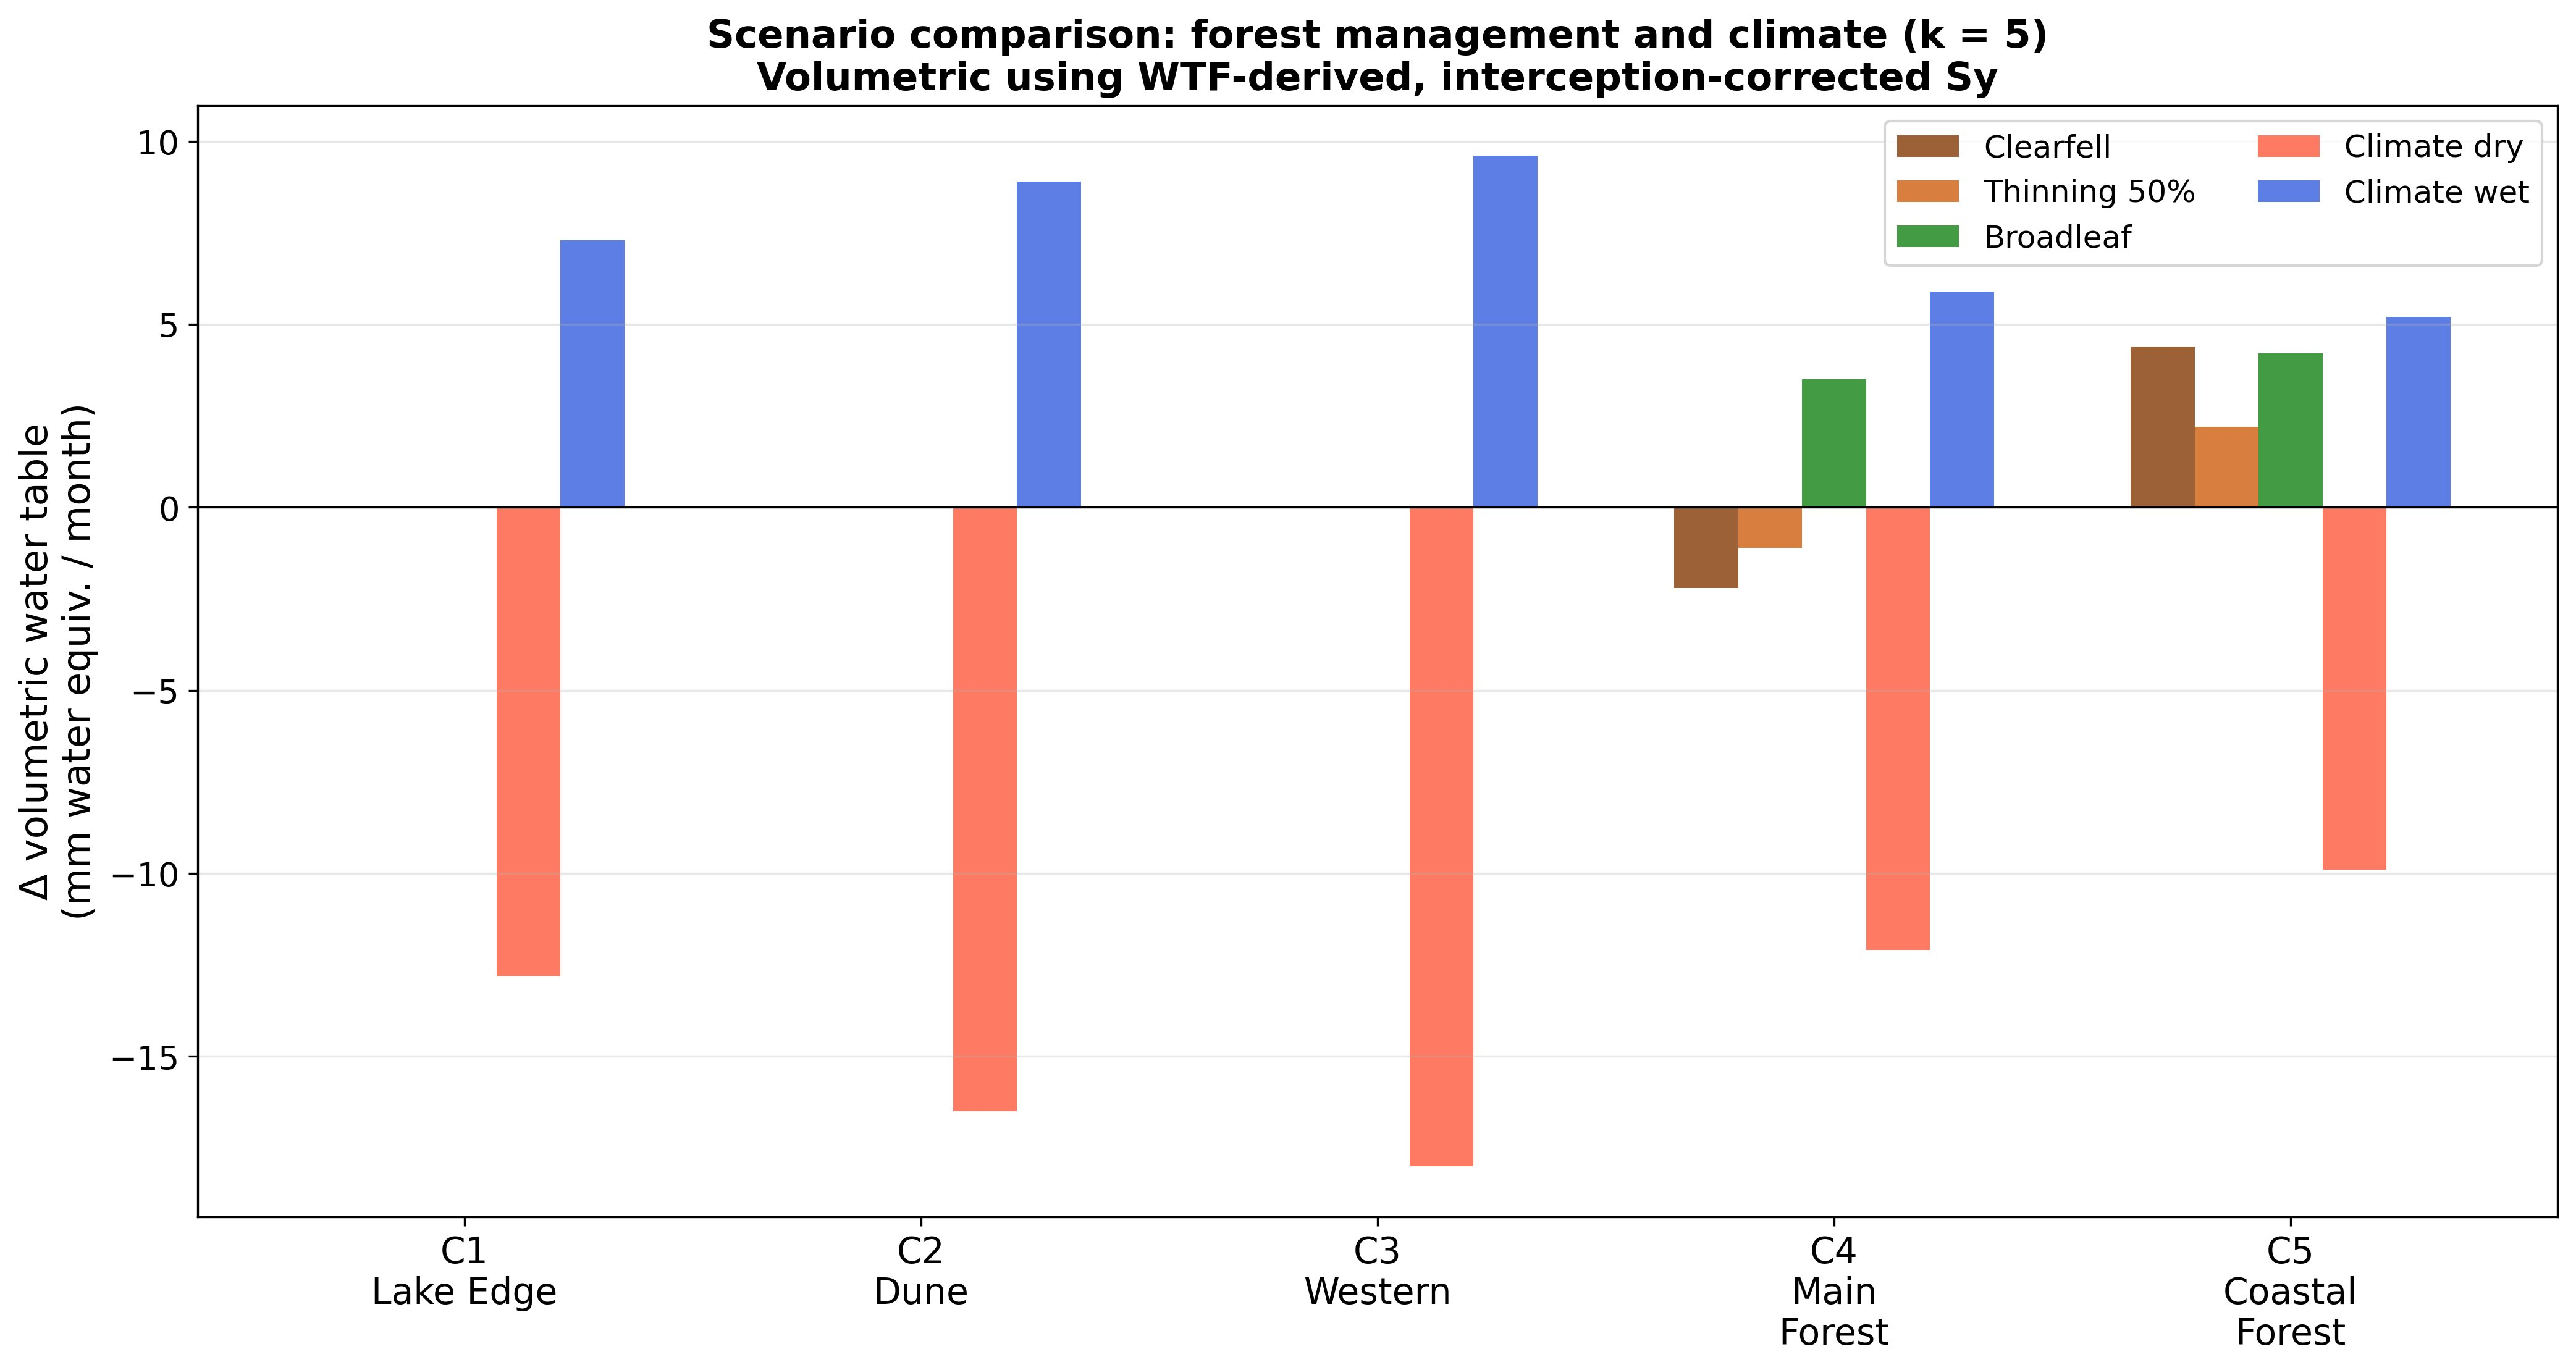
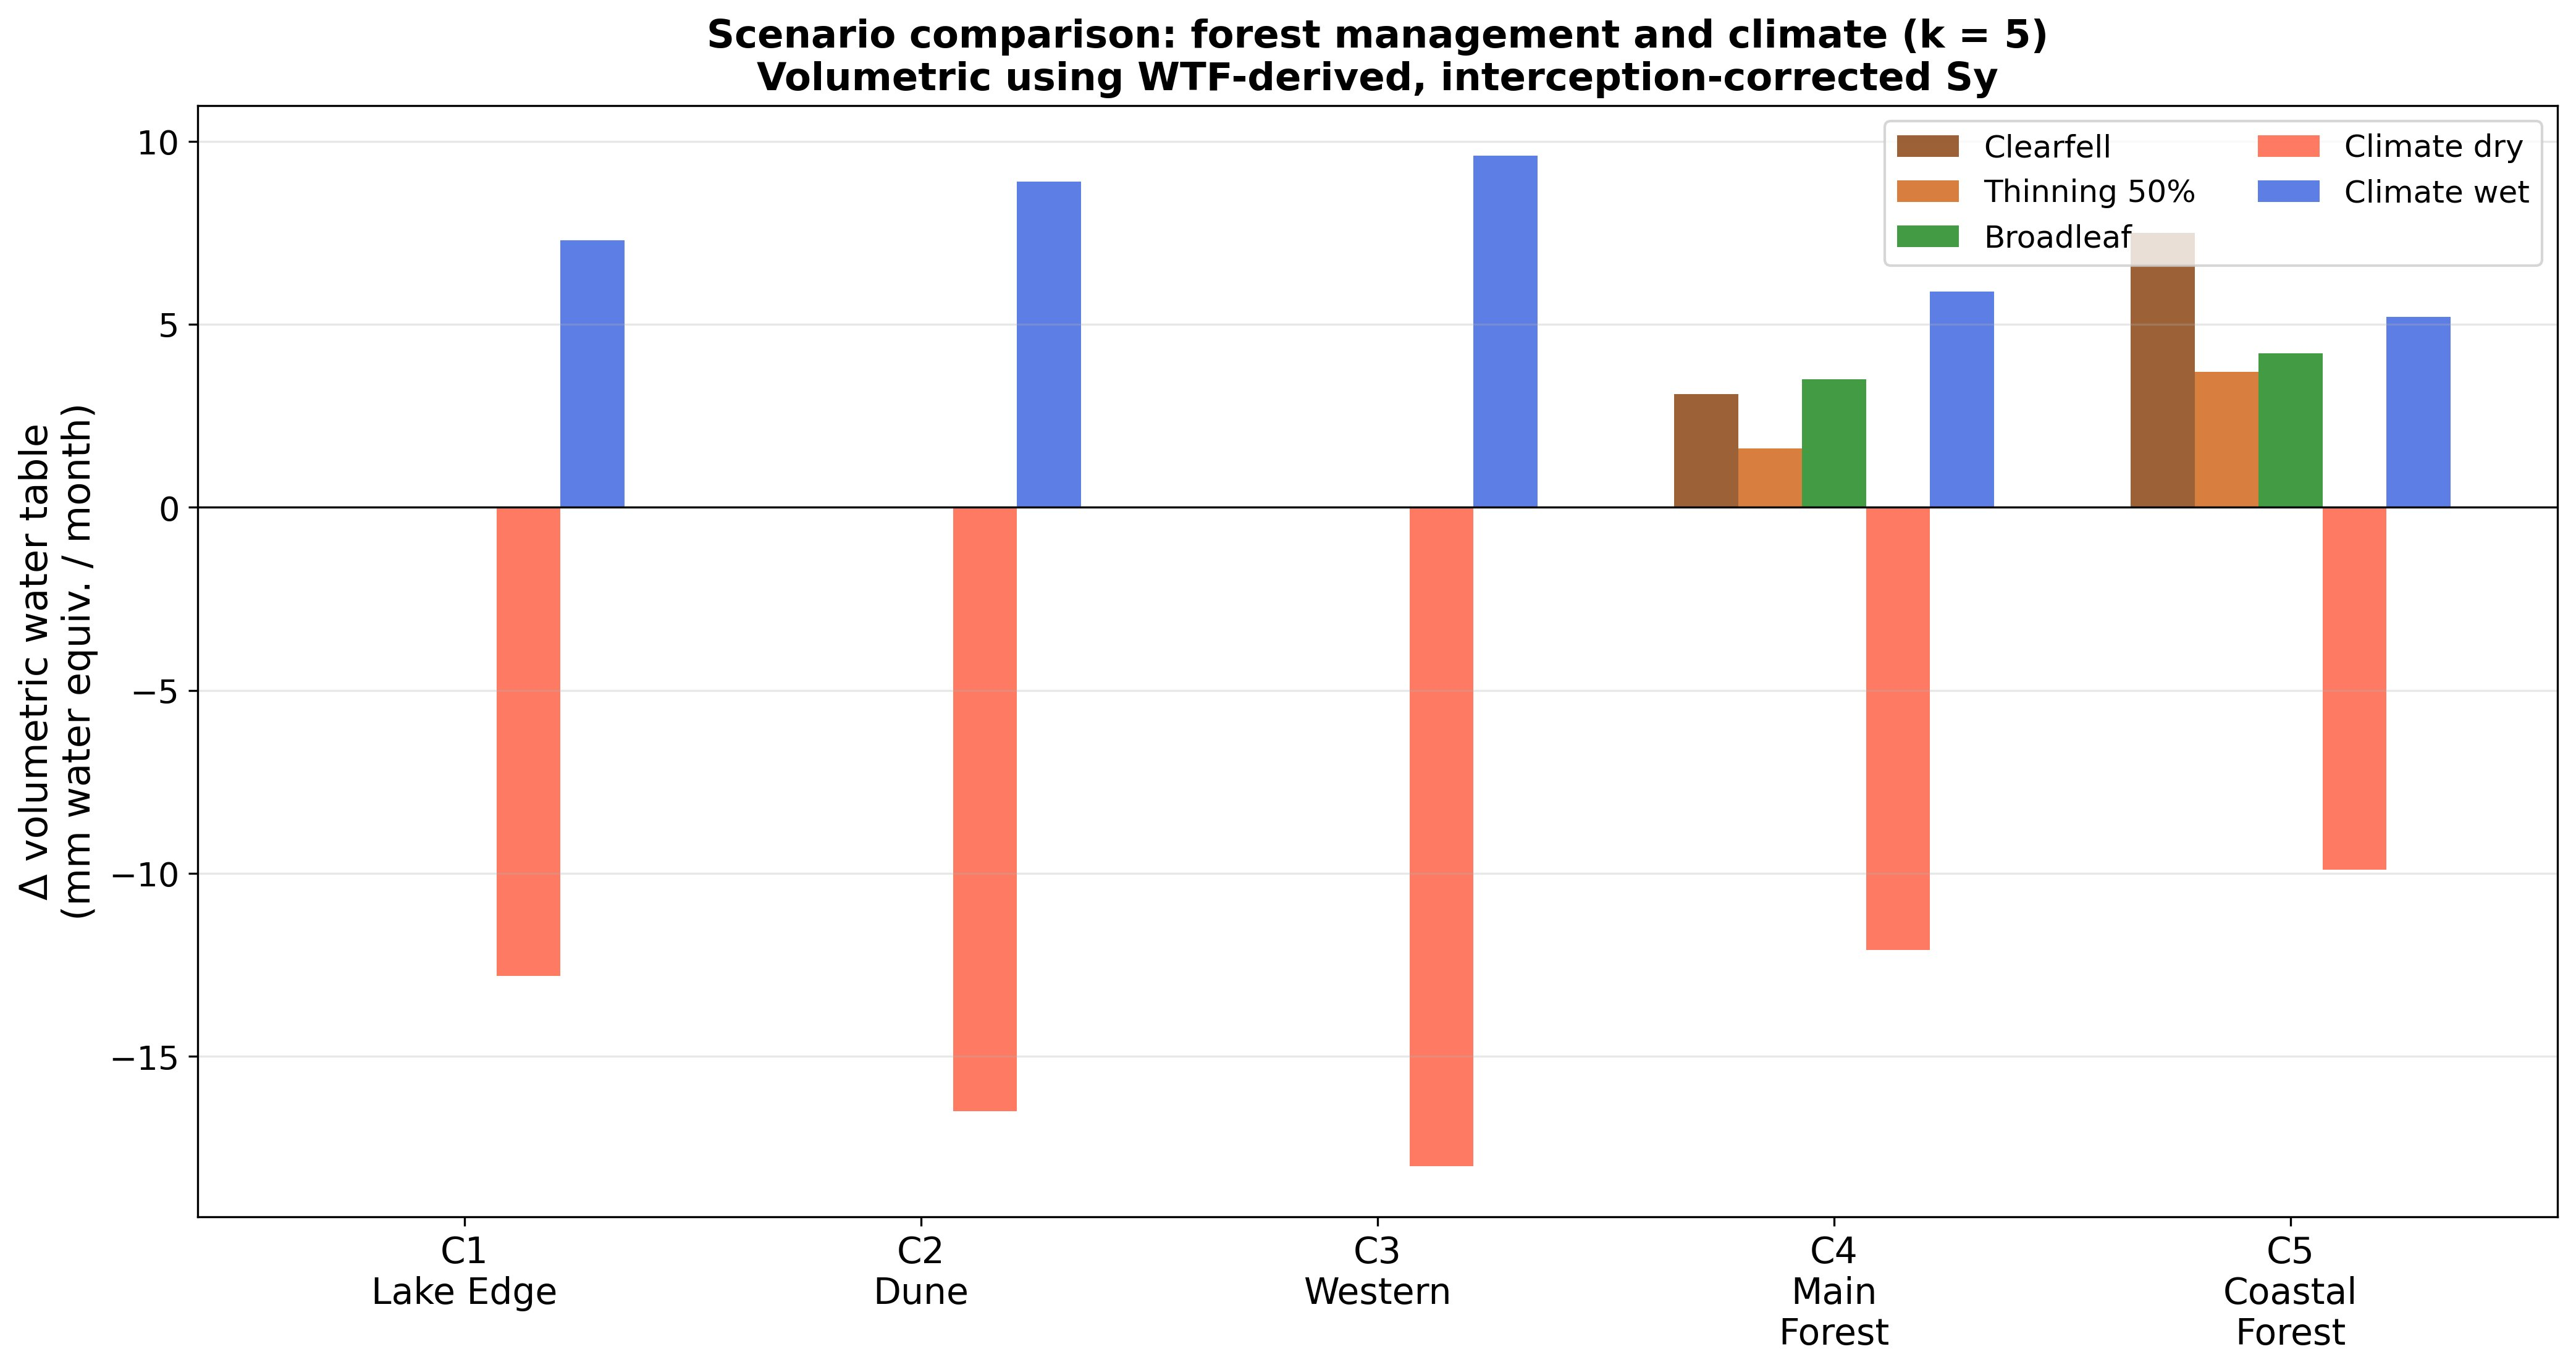
Add files via upload

Changed region(s): [[0.6235, 0.28, 0.717, 0.4355], [0.8106, 0.1555, 0.9041, 0.3111]]

diff --git a/outputs/19_spatial_groundwater/scenario_viewer.html b/outputs/19_spatial_groundwater/scenario_viewer.html
@@ -1,13 +1,13 @@
 <!DOCTYPE html>
-<!-- Newborough Warren Hydrological Scenario Viewer v2.4.2 -->
+<!-- Newborough Warren Hydrological Scenario Viewer v2.5.0 -->
 <!-- Generated by 19_spatial_groundwater.py -->
 <html lang="en">
 <head>
 <meta charset="UTF-8">
 <meta name="viewport" content="width=device-width,initial-scale=1.0">
-<meta name="generator" content="19_spatial_groundwater.py v2.4.2">
-<meta name="viewer-version" content="2.4.2">
-<title>Newborough Warren — Hydrological Scenario Viewer v2.4.2</title>
+<meta name="generator" content="19_spatial_groundwater.py v2.5.0">
+<meta name="viewer-version" content="2.5.0">
+<title>Newborough Warren — Hydrological Scenario Viewer v2.5.0</title>
 <link rel="preconnect" href="https://fonts.googleapis.com">
 <link rel="preconnect" href="https://fonts.gstatic.com" crossorigin>
 <link href="https://fonts.googleapis.com/css2?family=Libre+Baskerville:ital,wght@0,400;0,700;1,400&family=Source+Sans+3:wght@300;400;600&display=swap" rel="stylesheet">
@@ -334,7 +334,7 @@ footer a:hover{text-decoration:underline;}
 </div>
 
 <footer>
-  <span style="float:right;opacity:0.6;">viewer v2.4.2</span>
+  <span style="float:right;opacity:0.6;">viewer v2.5.0</span>
   &#916;h from SSM increment model using per-well &#946;&#8321;, &#946;&#8322;, &#946;&#8323; (scripts 01&#8211;03).
   Delaunay triangulation + linear barycentric weighting for published figures; viewer renders the same per-well &#916;h field via power-1 eight-nearest-neighbour IDW (see Technical Note for details).
   Interception: Corsican pine 24% (Freeman 2008); broadleaf 15% annual mean (Komatsu et al. 2011).
@@ -369,9 +369,9 @@ var SCEN={
   baseline:     {sP_w:1,    sP_s:1,    sPET_w:1,    sPET_s:1,    sI_c4:FOREST_INTERCEPTION,     sI_c5:FOREST_INTERCEPTION,     sB2_c4:1,    sB2_c5:1},
   ukcp18_2050s: {sP_w:1.10, sP_s:0.85, sPET_w:1.05, sPET_s:1.20, sI_c4:FOREST_INTERCEPTION,     sI_c5:FOREST_INTERCEPTION,     sB2_c4:1,    sB2_c5:1},
   ukcp18_2080s: {sP_w:1.20, sP_s:0.70, sPET_w:1.10, sPET_s:1.35, sI_c4:FOREST_INTERCEPTION,     sI_c5:FOREST_INTERCEPTION,     sB2_c4:1,    sB2_c5:1},
-  clearfell:    {sP_w:1,    sP_s:1,    sPET_w:1,    sPET_s:1,    sI_c4:0,                       sI_c5:0,                       sB2_c4:1.20, sB2_c5:1.20},
+  clearfell:    {sP_w:1,    sP_s:1,    sPET_w:1,    sPET_s:1,    sI_c4:0,                       sI_c5:0,                       sB2_c4:1.108, sB2_c5:1.108},
   broadleaf:    {sP_w:1,    sP_s:1,    sPET_w:1,    sPET_s:1,    sI_c4:BROADLEAF_INTERCEPTION,  sI_c5:BROADLEAF_INTERCEPTION,  sB2_c4:1.00, sB2_c5:1.00},
-  thinning:     {sP_w:1,    sP_s:1,    sPET_w:1,    sPET_s:1,    sI_c4:FOREST_INTERCEPTION*0.5, sI_c5:FOREST_INTERCEPTION*0.5, sB2_c4:1.10, sB2_c5:1.10},
+  thinning:     {sP_w:1,    sP_s:1,    sPET_w:1,    sPET_s:1,    sI_c4:FOREST_INTERCEPTION*0.5, sI_c5:FOREST_INTERCEPTION*0.5, sB2_c4:1.054, sB2_c5:1.054},
 };
 var WARN={
   clearfell:    'Post-felling: canopy interception removed, \u03b2\u2082 increases. Study finding: clearfell deepens summer minima \u2014 the dominant control on winter flooding probability.',